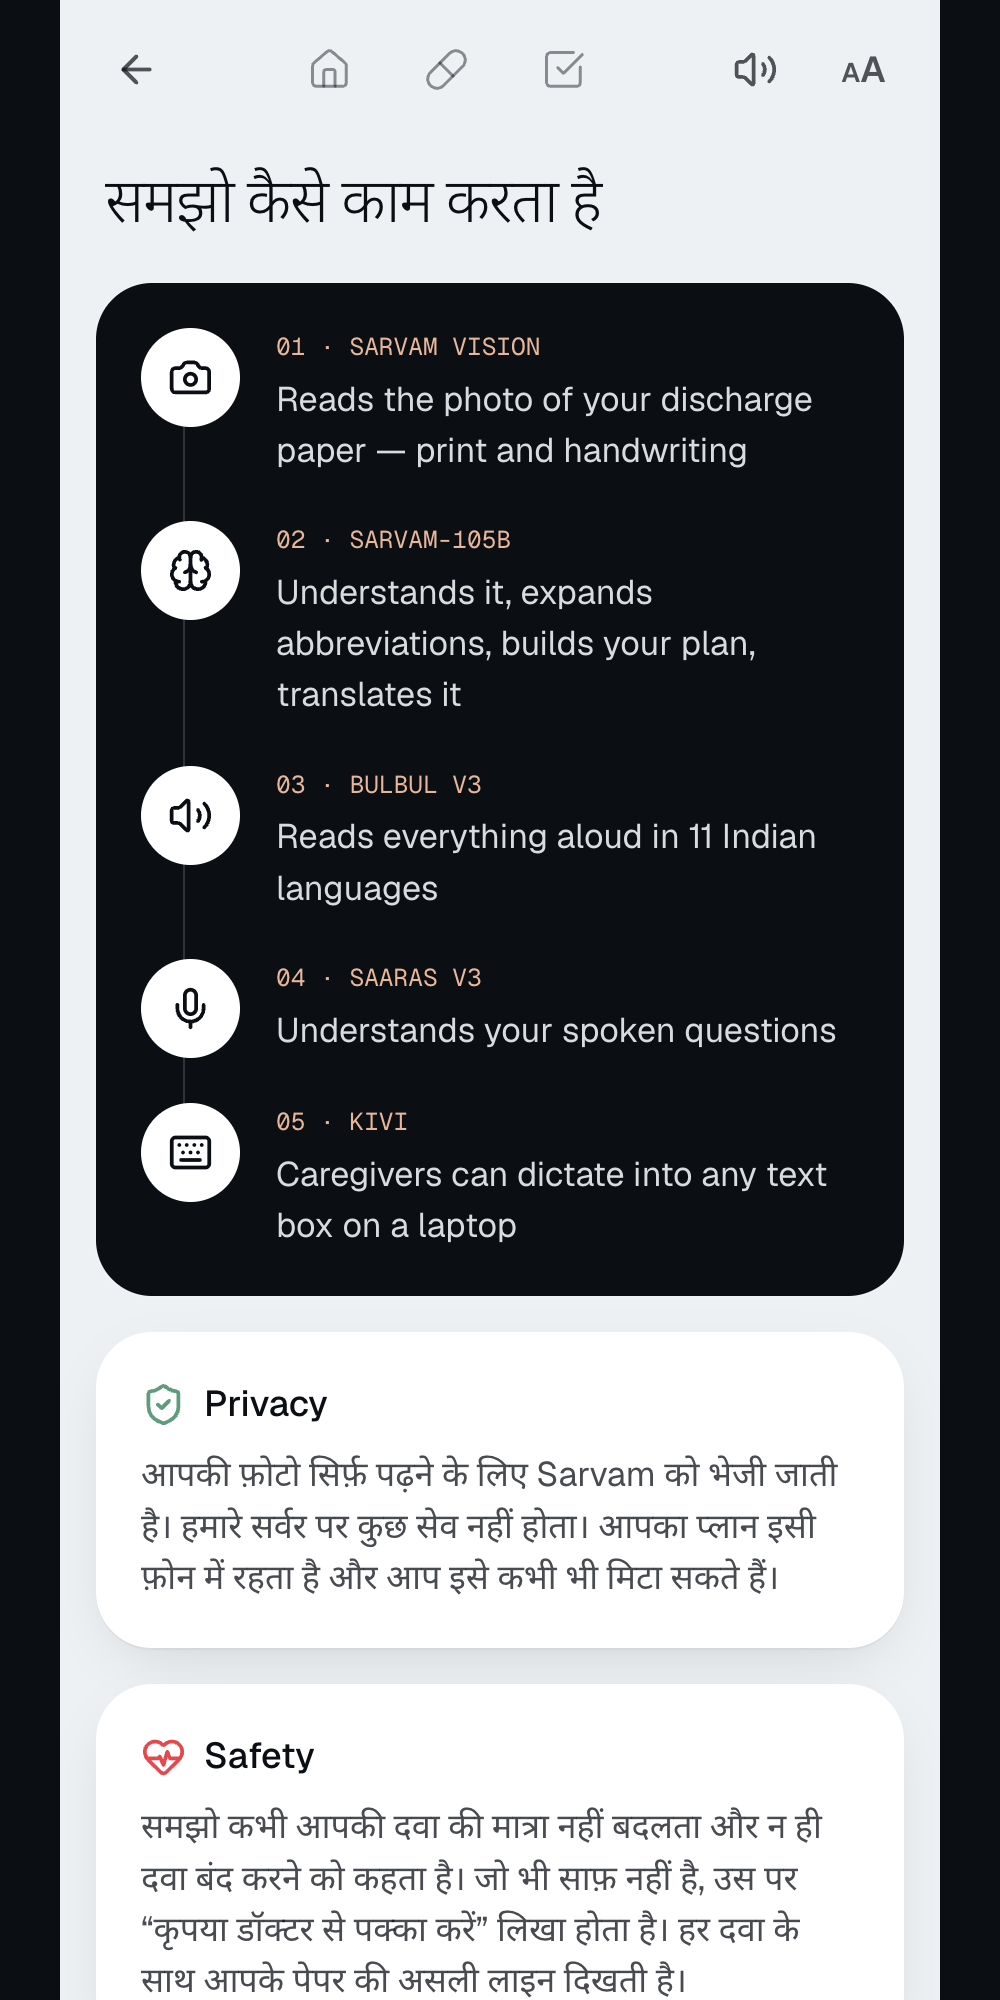
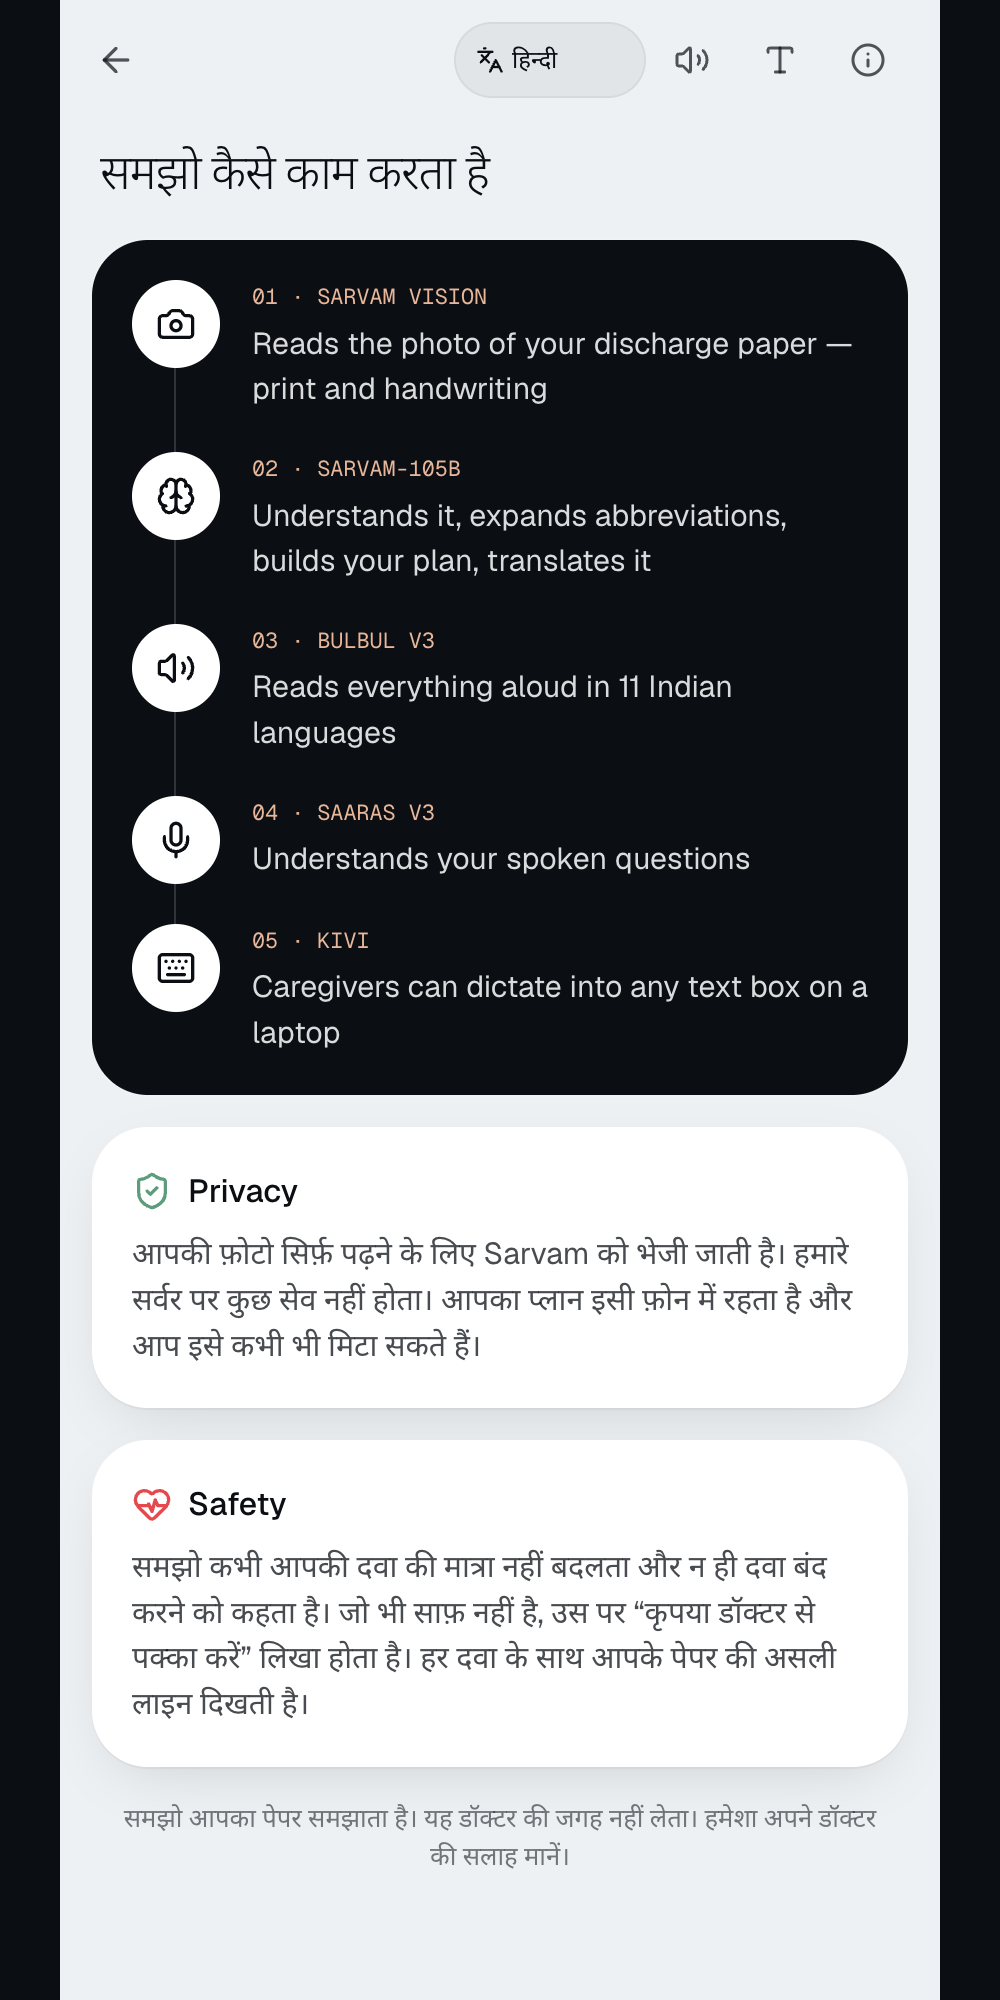
UI pass: new header and bottom tab bar, consistent type scale

diff --git a/components/ui.tsx b/components/ui.tsx
@@ -2,7 +2,7 @@
 import { useSyncExternalStore } from "react";
 import Link from "next/link";
 import { usePathname, useRouter } from "next/navigation";
-import { AlertTriangle, ArrowLeft, Check, CheckSquare, Home, Info, Languages, Loader2, Pill, Square, Volume2, VolumeX } from "lucide-react";
+import { AlertTriangle, ArrowLeft, Camera, Check, CheckSquare, Home, Info, Languages, Loader2, Pill, Square, Type, Volume2, VolumeX } from "lucide-react";
 import { motion } from "framer-motion";
 import { audioStore, speak, stopAudio, unlockAudio } from "@/lib/audio";
 import { LANGS, type LangCode } from "@/lib/langs";
@@ -19,7 +19,7 @@ export function ListenButton({ id, text, label, dark, big }: { id: string; text:
       type="button"
       aria-label={active ? t.stop : `${t.listen}${label ? `: ${label}` : ""}`}
       onClick={(e) => { e.stopPropagation(); unlockAudio(); if (active) stopAudio(); else void speak(id, text, lang); }}
-      className={`inline-flex shrink-0 items-center gap-2 rounded-full ${big ? "h-14 px-5" : "h-11 px-4"} text-[0.85rem] font-medium transition active:scale-95 ${
+      className={`inline-flex shrink-0 items-center gap-2 rounded-full ${big ? "h-12 px-5" : "h-10 px-4"} text-[0.8rem] font-medium transition active:scale-95 ${
         dark ? "bg-white/10 text-white ring-1 ring-white/15 hover:bg-white/15" : "bg-ink/5 text-ink ring-1 ring-ink/10 hover:bg-ink/10"
       }`}
     >
@@ -48,8 +48,8 @@ export function Card({ children, className = "", dark }: { children: React.React
 export function LanguagePill({ dark }: { dark?: boolean }) {
   const { lang, setLang, t } = usePlan();
   return (
-    <label className={`relative inline-flex h-11 items-center gap-1.5 rounded-full px-3 text-[0.8rem] ${dark ? "bg-white/10 text-white ring-1 ring-white/15" : "bg-ink/5 text-ink ring-1 ring-ink/10"}`}>
-      <Languages className="size-4" aria-hidden />
+    <label className={`relative inline-flex h-9 items-center gap-1 rounded-full px-2.5 text-[0.75rem] ${dark ? "bg-white/10 text-white ring-1 ring-white/15" : "bg-ink/5 text-ink ring-1 ring-ink/10"}`}>
+      <Languages className="size-3.5" aria-hidden />
       <span className="sr-only">{t.chooseLanguage}</span>
       <select
         value={lang}
@@ -63,42 +63,26 @@ export function LanguagePill({ dark }: { dark?: boolean }) {
 }
 
 export function TopBar({ dark = true, back }: { dark?: boolean; back?: string }) {
-  const path = usePathname();
   const router = useRouter();
   const { t, largeText, setLargeText, muted, setMuted } = usePlan();
-  const tabs = [
-    { href: "/plan", icon: Home, label: t.navPlan },
-    { href: "/medicines", icon: Pill, label: t.navMeds },
-    { href: "/checklist", icon: CheckSquare, label: t.navChecklist },
-  ];
-  const btn = `grid size-11 place-items-center rounded-full transition ${dark ? "text-white/80 hover:bg-white/10" : "text-ink/70 hover:bg-ink/5"}`;
+  const btn = `grid size-10 place-items-center rounded-full transition ${dark ? "text-white/80 hover:bg-white/10" : "text-ink/70 hover:bg-ink/5"}`;
   return (
-    <header className={`sticky top-0 z-30 px-3 pt-[max(env(safe-area-inset-top),10px)] pb-2 backdrop-blur-xl ${dark ? "bg-night/70" : "bg-paper/80"}`}>
-      <div className="flex items-center justify-between gap-1">
+    <header className={`sticky top-0 z-30 px-4 pt-[max(env(safe-area-inset-top),8px)] pb-2 backdrop-blur-xl ${dark ? "bg-night/60" : "bg-paper/80"}`}>
+      <div className="flex h-11 items-center justify-between gap-2">
         {back ? (
-          <button className={btn} onClick={() => router.push(back)} aria-label={t.back}><ArrowLeft className="size-5" /></button>
+          <button className={`${btn} -ml-2`} onClick={() => router.push(back)} aria-label={t.back}><ArrowLeft className="size-5" /></button>
         ) : (
-          <Link href="/how-it-works" className={btn} aria-label={t.howItWorks}><Info className="size-5" /></Link>
+          <Link href="/" className={`text-[1.15rem] font-light tracking-tight ${dark ? "text-white" : "text-ink"}`}>samjho</Link>
         )}
-        <nav className="flex items-center gap-1" aria-label="Main">
-          {tabs.map(({ href, icon: Icon, label }) => {
-            const on = path === href;
-            return (
-              <Link key={href} href={href} aria-label={label} aria-current={on ? "page" : undefined}
-                className={`relative grid h-11 w-12 place-items-center ${dark ? (on ? "text-white" : "text-white/50") : on ? "text-ink" : "text-ink/45"}`}>
-                <Icon className="size-5" strokeWidth={1.6} />
-                {on && <motion.span layoutId="tab" className={`absolute bottom-1 h-px w-6 ${dark ? "bg-white" : "bg-ink"}`} />}
-              </Link>
-            );
-          })}
-        </nav>
         <div className="flex items-center gap-1">
+          <LanguagePill dark={dark} />
           <button className={btn} onClick={() => { if (!muted) stopAudio(); setMuted(!muted); }} aria-label={muted ? t.unmute : t.mute}>
-            {muted ? <VolumeX className="size-5" /> : <Volume2 className="size-5" />}
+            {muted ? <VolumeX className="size-[18px]" /> : <Volume2 className="size-[18px]" />}
           </button>
-          <button className={`${btn} font-semibold`} onClick={() => setLargeText(!largeText)} aria-pressed={largeText} aria-label={t.largeText}>
-            <span className="flex items-baseline"><span className="text-[0.75rem]">A</span><span className="text-[1rem]">A</span></span>
+          <button className={`${btn} ${largeText ? (dark ? "bg-white/15" : "bg-ink/10") : ""}`} onClick={() => setLargeText(!largeText)} aria-pressed={largeText} aria-label={t.largeText}>
+            <Type className="size-[18px]" />
           </button>
+          <Link href="/how-it-works" className={btn} aria-label={t.howItWorks}><Info className="size-[18px]" /></Link>
         </div>
       </div>
     </header>
@@ -108,7 +92,7 @@ export function TopBar({ dark = true, back }: { dark?: boolean; back?: string })
 export function Disclaimer({ dark }: { dark?: boolean }) {
   const { t } = usePlan();
   return (
-    <p className={`mx-auto mt-8 max-w-sm px-6 pb-36 text-center text-[0.78rem] leading-relaxed ${dark ? "text-white/55" : "text-ink/55"}`}>
+    <p className={`mx-auto mt-8 max-w-sm px-6 pb-32 text-center text-[0.78rem] leading-relaxed ${dark ? "text-white/55" : "text-ink/55"}`}>
       <AlertTriangle className="mr-1 inline size-3.5 -translate-y-px" aria-hidden />{t.disclaimer}
     </p>
   );
@@ -127,15 +111,41 @@ export function TickBox({ checked, onChange, label }: { checked: boolean; onChan
   );
 }
 
+/** Bottom tab bar: Plan · Medicines · [Ask] · Checklist. */
 export function MicFab({ onClick, label }: { onClick: () => void; label: string }) {
+  const path = usePathname();
+  const { t } = usePlan();
+  const tabs = [
+    { href: "/plan", icon: Home, label: t.navPlan },
+    { href: "/medicines", icon: Pill, label: t.navMeds },
+    null,
+    { href: "/checklist", icon: CheckSquare, label: t.navChecklist },
+    { href: "/scan", icon: Camera, label: t.takePhoto },
+  ];
   return (
-    <div className="pointer-events-none fixed inset-x-0 bottom-0 z-40 flex justify-center pb-[max(env(safe-area-inset-bottom),18px)]">
-      <button onClick={onClick} aria-label={label}
-        className="pointer-events-auto flex h-16 items-center gap-3 rounded-full bg-white pl-3 pr-6 text-ink shadow-[0_12px_40px_-8px_rgba(11,15,20,0.45)] ring-1 ring-ink/5 transition active:scale-95">
-        <span className="grid size-11 place-items-center rounded-full bg-night text-white"><Waveform /></span>
-        <span className="font-medium">{label}</span>
-      </button>
-    </div>
+    <nav aria-label="Main" className="no-print fixed inset-x-0 bottom-0 z-40 mx-auto max-w-[440px] px-3 pb-[max(env(safe-area-inset-bottom),10px)]">
+      <div className="flex h-[68px] items-center justify-around rounded-[26px] bg-white/95 px-1 shadow-[0_12px_40px_-10px_rgba(11,15,20,0.45)] ring-1 ring-ink/5 backdrop-blur-xl">
+        {tabs.map((tab, i) => {
+          if (!tab) {
+            return (
+              <button key="ask" onClick={onClick} aria-label={label} className="-mt-8 flex flex-col items-center gap-1">
+                <span className="grid size-14 place-items-center rounded-full bg-night text-white shadow-lg ring-4 ring-paper transition active:scale-95"><Waveform className="size-6" /></span>
+                <span className="text-[0.62rem] font-medium text-ink">{t.navAsk}</span>
+              </button>
+            );
+          }
+          const on = path === tab.href;
+          const Icon = tab.icon;
+          return (
+            <Link key={i} href={tab.href} aria-current={on ? "page" : undefined}
+              className={`flex min-w-14 flex-col items-center gap-1 rounded-2xl px-2 py-1.5 transition ${on ? "text-ink" : "text-ink/45"}`}>
+              <Icon className="size-5" strokeWidth={on ? 2 : 1.6} />
+              <span className="max-w-16 truncate text-[0.62rem] font-medium">{tab.label}</span>
+            </Link>
+          );
+        })}
+      </div>
+    </nav>
   );
 }
 

diff --git a/app/plan/page.tsx b/app/plan/page.tsx
@@ -4,7 +4,7 @@ import { useRouter } from "next/navigation";
 import { motion } from "framer-motion";
 import { AlertTriangle, BookOpen, CalendarPlus, ChevronRight, Footprints, HelpCircle, Phone, Printer, Salad, Share2, Trash2 } from "lucide-react";
 import { useRequirePlan } from "@/components/useRequirePlan";
-import { Card, Disclaimer, Label, LanguagePill, ListenButton, MicFab, Shell, TickBox, TopBar } from "@/components/ui";
+import { Card, Disclaimer, Label, ListenButton, MicFab, Shell, TickBox, TopBar } from "@/components/ui";
 import { speak, unlockAudio } from "@/lib/audio";
 import { fill } from "@/lib/i18n";
 import { buildIcs, downloadIcs } from "@/lib/ics";
@@ -61,10 +61,10 @@ export default function PlanPage() {
         <div className="hero-gradient relative overflow-hidden rounded-b-[36px] text-white">
           <div className="pointer-events-none absolute -top-10 left-1/2 size-[420px] -translate-x-1/2 rounded-full bg-teal/40 blur-3xl drift" aria-hidden />
           <TopBar />
-          <div className="relative flex min-h-[68dvh] flex-col items-center justify-center px-7 pb-14 text-center">
+          <div className="relative flex min-h-[46dvh] pt-6 flex-col items-center justify-center px-7 pb-14 text-center">
             {isSample && <Label className="mb-4 rounded-full bg-white/10 px-3 py-1 text-white/70 ring-1 ring-white/15">{t.sampleBadge}</Label>}
             <motion.p key={greeting} initial={{ opacity: 0, y: 12 }} animate={{ opacity: 1, y: 0 }} transition={{ duration: 0.8 }}
-              className="text-balance text-[1.75rem] font-light leading-snug tracking-tight">
+              className="text-balance text-[1.6rem] font-light leading-snug tracking-tight">
               {greeting}
             </motion.p>
             <div className="mt-7 flex flex-wrap items-center justify-center gap-2">
@@ -73,7 +73,7 @@ export default function PlanPage() {
             </div>
             {needTap && !muted && <p className="mt-4 text-[0.8rem] text-white/60">{t.tapToHear}</p>}
           </div>
-          <div className="absolute bottom-4 right-4"><LanguagePill dark /></div>
+          
         </div>
 
         <div className="space-y-4 px-4 pt-5">
@@ -118,7 +118,7 @@ export default function PlanPage() {
                 <div>
                   {fDays !== null && fDays >= 0 ? (
                     <div className="flex items-baseline gap-2">
-                      <span className="text-[3.4rem] font-extralight leading-none">{fDays}</span>
+                      <span className="text-[3rem] font-extralight leading-none">{fDays}</span>
                       <span className="text-[0.95rem] text-white/85">{fDays === 0 ? t.isToday : fill(t.inDays, { n: fDays }).replace(String(fDays), "").trim()}</span>
                     </div>
                   ) : <div className="text-[1.2rem]">{follow.relative_text}</div>}

diff --git a/app/ask/page.tsx b/app/ask/page.tsx
@@ -102,15 +102,15 @@ export default function Ask() {
             <p className="flex items-center gap-2 text-[1.1rem] text-white/80"><Loader2 className="size-5 animate-spin" /> {t.thinking}</p>
           ) : answer ? (
             <>
-              <motion.p key={answer} initial={{ opacity: 0, y: 10 }} animate={{ opacity: 1, y: 0 }} className="max-w-sm text-balance text-[1.45rem] font-light leading-snug">{answer}</motion.p>
+              <motion.p key={answer} initial={{ opacity: 0, y: 10 }} animate={{ opacity: 1, y: 0 }} className="max-w-sm text-balance text-[1.3rem] font-light leading-snug">{answer}</motion.p>
               <div className="mt-5"><ListenButton id="answer" text={answer} dark /></div>
               {doctor && <Label className="mt-4 text-white/45">{doctor}</Label>}
             </>
           ) : phase === "rec" ? (
-            <p className="text-[1.6rem] font-light">{t.listening}</p>
+            <p className="text-[1.4rem] font-light">{t.listening}</p>
           ) : (
             <>
-              <h1 className="text-[1.7rem] font-light tracking-tight">{t.askTitle}</h1>
+              <h1 className="text-[1.5rem] font-light tracking-tight">{t.askTitle}</h1>
               <p className="mt-2 text-white/65">{t.askHint}</p>
             </>
           )}

diff --git a/app/globals.css b/app/globals.css
@@ -15,8 +15,8 @@
   --font-mono: var(--font-geist-mono), var(--font-deva), var(--font-beng), var(--font-gujr), var(--font-guru), var(--font-knda), var(--font-mlym), var(--font-orya), var(--font-taml), var(--font-telu), ui-monospace, monospace;
 }
 
-html { font-size: 18px; background: #0B0F14; color-scheme: light; }
-html[data-large="1"] { font-size: 21px; }
+html { font-size: 16px; background: #0B0F14; color-scheme: light; }
+html[data-large="1"] { font-size: 19px; }
 body { background: #0B0F14; color: #0B0F14; font-family: var(--font-sans); -webkit-tap-highlight-color: transparent; }
 
 @media (min-width: 640px) {

diff --git a/app/page.tsx b/app/page.tsx
@@ -32,7 +32,7 @@ export default function Welcome() {
         </div>
 
         <motion.div initial={{ opacity: 0, y: 16 }} animate={{ opacity: 1, y: 0 }} transition={{ duration: 0.7 }} className="mt-14 text-center">
-          <h1 className="mt-5 text-balance text-[1.9rem] font-light leading-tight tracking-tight">
+          <h1 className="mt-5 text-balance text-[1.7rem] font-light leading-tight tracking-tight">
             {langInfo(lang).hello}.<br />{t.welcomeTitle}
           </h1>
           <p className="mx-auto mt-3 max-w-xs text-[0.95rem] text-white/70">{t.tagline}</p>

diff --git a/app/checklist/page.tsx b/app/checklist/page.tsx
@@ -37,7 +37,7 @@ export default function Checklist() {
         <TopBar />
         <div className="px-5">
           <Label className="text-white/55">{t.adherence}</Label>
-          <h1 className="mt-1 text-[1.7rem] font-light tracking-tight">{t.checklistTitle}</h1>
+          <h1 className="mt-1 text-[1.5rem] font-light tracking-tight">{t.checklistTitle}</h1>
           {/* Thin bar chart */}
           <div className="mt-6 flex h-36 items-end justify-between gap-2" role="img" aria-label={t.adherence}>
             {Array.from({ length: 7 }, (_, i) => {

diff --git a/app/scan/page.tsx b/app/scan/page.tsx
@@ -54,7 +54,7 @@ export default function Scan() {
         <LanguagePill />
       </header>
       <div className="px-5 pb-40">
-        <h1 className="mt-4 text-[1.6rem] font-light leading-tight tracking-tight">{t.scanTitle}</h1>
+        <h1 className="mt-4 text-[1.5rem] font-light leading-tight tracking-tight">{t.scanTitle}</h1>
         <div className="mt-4 flex items-start gap-3 rounded-[22px] bg-white p-4 text-[0.9rem] text-ink/75 shadow-sm">
           <Sparkles className="mt-0.5 size-5 shrink-0 text-teal" aria-hidden /> {t.scanTip}
         </div>

diff --git a/app/medicines/page.tsx b/app/medicines/page.tsx
@@ -22,7 +22,7 @@ export default function Medicines() {
       <div className="px-4">
         <div className="dusk-gradient mt-2 rounded-[28px] p-6">
           <Label className="text-white/75">{fill(t.medicinesCount, { n: plan.medicines.length })}</Label>
-          <h1 className="mt-2 text-[1.8rem] font-light tracking-tight">{t.medicinesTitle}</h1>
+          <h1 className="mt-2 text-[1.5rem] font-light tracking-tight">{t.medicinesTitle}</h1>
           <p className="mt-2 text-[0.9rem] text-white/85">{plan.diagnosis_simple}</p>
         </div>
 

diff --git a/app/reading/page.tsx b/app/reading/page.tsx
@@ -75,7 +75,7 @@ export default function Reading() {
       <div className="relative flex min-h-dvh flex-col justify-center px-6">
         {!error ? (
           <>
-            <h1 className="text-center text-[1.8rem] font-light tracking-tight">{t.readingTitle}</h1>
+            <h1 className="text-center text-[1.5rem] font-light tracking-tight">{t.readingTitle}</h1>
             <ol className="mx-auto mt-10 w-full max-w-sm space-y-4" aria-live="polite">
               {steps.map((s, i) => {
                 const done = step > i;

diff --git a/app/how-it-works/page.tsx b/app/how-it-works/page.tsx
@@ -17,7 +17,7 @@ export default function How() {
     <Shell className="bg-paper">
       <TopBar dark={false} back="/" />
       <div className="space-y-4 px-4 pb-16">
-        <h1 className="px-1 pt-2 text-[1.7rem] font-light tracking-tight">{t.howTitle}</h1>
+        <h1 className="px-1 pt-2 text-[1.5rem] font-light tracking-tight">{t.howTitle}</h1>
         <Card dark>
           <ol className="relative space-y-5">
             <span className="absolute bottom-4 left-[21px] top-4 w-px bg-white/15" aria-hidden />
